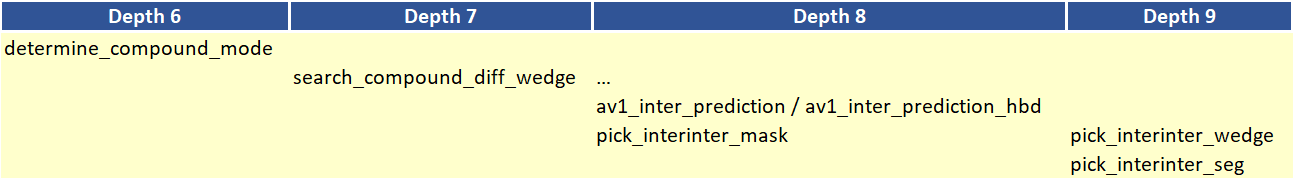
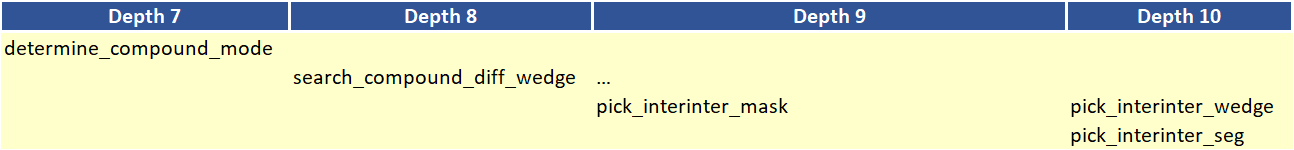
updating documentations for compound mode

diff --git a/Docs/Appendix-Compound-Mode-Prediction.md b/Docs/Appendix-Compound-Mode-Prediction.md
@@ -141,20 +141,40 @@ Table 1 below provides the weights as a function of d1/d0.
 
 ## 2.  Implementation of the algorithm
 
-**Control macros/flags**:
+**Control tokens/flags**:
 
-##### Table 2. Inter-intra-related control flags.
+The control tokens and flags for the feature are listed in Tables 2 and 3.
 
-![comp_mode_pred_table2](./img/comp_mode_pred_table2.png)
+##### Table 2. Control flags related to inter-intra compound mode prediction.
 
-##### Table 3. Control flag for wedge prediction.
+| **Flag** | **Level (Sequence/picture)** | **Description** |
+| --- | --- | --- |
+| inter_intra_compound | sequence | Config level settings for the whole sequence. 0/1: ON/OFF; -1 for Auto i.e. Default |
+| enable_interintra_compound | sequence | Sequence level ON/OFF flag |
+| md_inter_intra_level | sequence | Enable/disable the feature at the picture level. |
+| md_inter_intra_level | block | Enable/disable the feature at the block level. |
 
-![comp_mode_pred_table3](./img/comp_mode_pred_table3.png)
 
-##### Table 4. Control flags related to inter-inter compound mode prediction.
+##### Table 3. Control flags related to inter-inter compound mode prediction.
 
-![comp_mode_pred_table4](./img/comp_mode_pred_table4.png)
+| **Flag** | **Level (Sequence/picture)** | **Description** |
+| --- | --- | --- |
+| compound_level | sequence | Config level settings for the whole sequence. 0/1: OFF/ON; -1 for Auto i.e. Default |
+| compound_mode | sequence | Sequence level ON/OFF flag |
+| inter_compound_mode | sequence | Enable/disable the feature at the picture level. |
+| inter_compound_mode | block | Enable/disable the feature at the block level. |
 
+### API
+
+The main function calls associated with the compound mode are listed in Tables 4 and 5.
+
+##### Table 4. API for inter-intra compound mode.
+
+![comp_mode_pred_table4_new](./img/comp_mode_pred_table4_new.png)
+
+##### Table 5. API for inter-inter compound mode.
+
+![comp_mode_pred_table5_new](./img/comp_mode_pred_table5_new.png)
 
 ### Details of the implementation
 
@@ -252,17 +272,14 @@ residuals and the intra prediction residuals.
 
 3.  ```Determine_compound_mode```
 
-The main function calls starting at ```Determine_compound_mode``` are
-outlined in Figure 4.
+The main function calls starting at ```determine_compound_mode``` are outlined in Figure 4.
 
 ![comp_mode_pred_fig6](./img/comp_mode_pred_fig6.png)
 
 ##### Figure 4. Continuation of Figure 3 showing the main function calls starting with determine\_compound\_mode.
 
-The generation of ```COMPOUND_WEDGE``` and ```COMPOUND_DIFFWTD``` predictions is
-performed using the function ```Determine_compound\_mode```, which calls the
-function ```search_compound_diff_wedge```. The rest of the details are
-outlined in the following.
+The generation of ```COMPOUND_WEDGE``` and ```COMPOUND_DIFFWTD``` predictions is performed using the function ```determine_compound_mode```,
+which calls the function ```search_compound_diff_wedge```. The rest of the details are outlined in the following.
 
 For a given block, the generation of the single reference inter
 predictions is performed in the function ```av1_inter_prediction /
@@ -282,7 +299,7 @@ called.
 inter-inter ```COMPOUND_WEDGE``` and updates the best ```COMPOUND_WEDGE```
 prediction mode and corresponding cost. This is allowed only for block
 sizes 8x8, 8x16, 16x8, 16x16, 16x32, 32x16, 32x32, 8x32 and 32x8. In
-this function, both the nominal mask and its inverse are evaluated and
+this function, both the nominal mask and its inverse are evaluated, and
 the best mask is selected. The best mask also indicated the mask
 sign.
 
@@ -299,25 +316,11 @@ As an example, consider the flow below for the function
 
 2.  Determine the number of compound modes to try:
 
-     - If 8x8 \<= block size \<= 32x32, then compound modes to try =
-compound\_types\_to\_try
+     - If compound is enabled for this inter type (`inter_comp_ctrls.do_nearest_nearest` is true) `tot_comp_types` equal to `inter_comp_ctrls.tot_comp_types`
+       which is based on `inter_compound_mode` level
+     - else `tot_comp_types` equal to `MD_COMP_DIST`
 
-      - else
-
-        - If (compound\_types\_to\_try == MD\_COMP\_WEDGE)
-
-          compound modes to try = MD\_COMP\_DIFF0
-
-        - else compound modes to try = compound\_types\_to\_try
-
-3.  Optimize further the number of modes to evaluate based on the
-    variance of the source block. If the variance of the source block is
-    smaller than a given threshold (```inter_inter_wedge_variance_th```),
-    then ```MD_COMP_WEDGE``` is not considered in the search and compound
-    modes to try is limited to MIN(compound modes to try,
-    ```MD_COMP_DIFF0```)
-
-4.  Single reference case
+3.  Single reference case
 
     - Check if inter-intra is allowed: ```svt_is_interintra_allowed```
 
@@ -346,7 +349,7 @@ mode).
     prediction option based on the best intra prediction mode from the
     smooth inter-intra prediction search. (```inter_intra_search```)
 
-5.  Compound reference case
+4.  Compound reference case
 
     For all ```NEARESTMV_NEARESTMV``` and ```NEAR_NEARMV``` candidates, loop over
 all selected compound prediction modes
@@ -367,49 +370,49 @@ av1\_inter\_prediction.
 
 ##### Figure 5. Continuation of Figure 3 showing the main function calls associated with compound modes in the case of warped motion prediction.
 
-1.  warped\_motion\_prediction
+- Step 2.1: warped\_motion\_prediction
   - **plane\_warped\_motion\_prediction**: Generates the luma and chroma
-  warped luma predictions. The chroma predictions are generated for
-  blocks that are 16x16 or larger.
+    warped luma predictions. The chroma predictions are generated for
+    blocks that are 16x16 or larger.
     - **av1\_dist\_wtd\_comp\_weight\_assign**: Returns forward offset
       and backward offset for the case of compound reference
       candidates and where the inter-inter compound prediction mde
       is COMPOUND\_DISTWTD. The forward offset and backward offset
       are used as weights in the generation of the final prediction.
     - **av1\_make\_masked\_warp\_inter\_predictor**: Called only in the case
-  of compound reference candidate where the inter-inter compound type
-  is COMPOUND\_WEDGE or COMPOUND\_DIFFWTD. Generates the predictions
-  for both of those two compound types. The first step is to build the
-  mask for the case of the COMPOUND\_DIFFWTD inter-inter compound type
-  using the function av1\_build\_compound\_diffwtd\_mask\_d16. The
-  next step is to generate the predictions using the function
-  build\_masked\_compound\_no\_round as follows:
+      of compound reference candidate where the inter-inter compound type
+      is COMPOUND\_WEDGE or COMPOUND\_DIFFWTD. Generates the predictions
+      for both of those two compound types. The first step is to build the
+      mask for the case of the COMPOUND\_DIFFWTD inter-inter compound type
+      using the function av1\_build\_compound\_diffwtd\_mask\_d16. The
+      next step is to generate the predictions using the function
+      build\_masked\_compound\_no\_round as follows:
       - The function av1\_get\_compound\_type\_mask is called and
-      returns the mask for either the case of COMPOUND\_DIFFWTD or
-      for the case of COMPOUND\_WEDGE. The function
-      av1\_get\_contiguous\_soft\_mask returns the mask for the case
-      of COMPOUND\_WEDGE. For the case of COMPOUND\_DIFFWTD, the
-      mask is computed in the step above.
+        returns the mask for either the case of COMPOUND\_DIFFWTD or
+        for the case of COMPOUND\_WEDGE. The function
+        av1\_get\_contiguous\_soft\_mask returns the mask for the case
+        of COMPOUND\_WEDGE. For the case of COMPOUND\_DIFFWTD, the
+        mask is computed in the step above.
       - The function aom\_highbd\_blend\_a64\_d16\_mask/
-      aom\_lowbd\_blend\_a64\_d16\_mask is the called to perform the
-      blending of the two inter predictions using the generated
-      mask.
-    - **eb\_av1\_warp\_plane** is invoked in the case of BIPRED where
-  inter-inter compound type is COMPOUND\_DISTWTD. In this case the
-  function highbd\_warp\_plane / warp\_plane is called and in turn
-  calls the function eb\_av1\_highbd\_warp\_affine /
-  eb\_av1\_warp\_affine. The latter applies the affine transform and
-  generates the warped motion prediction using the forward offset and
-  backward offset weights associated with the COMPOUND\_DISTWTD mode.
+        aom\_lowbd\_blend\_a64\_d16\_mask is the called to perform the
+        blending of the two inter predictions using the generated
+        mask.
+    - **svt\_av1\_warp\_plane** is invoked in the case of BIPRED where
+      inter-inter compound type is COMPOUND\_DISTWTD. In this case the
+      function highbd\_warp\_plane / warp\_plane is called and in turn
+      calls the function eb\_av1\_highbd\_warp\_affine /
+      eb\_av1\_warp\_affine. The latter applies the affine transform and
+      generates the warped motion prediction using the forward offset and
+      backward offset weights associated with the COMPOUND\_DISTWTD mode.
   - **chroma\_plane\_warped\_motion\_prediction\_sub8x8**: Generates chroma
-  warped motion predictions for blocks that are smaller than 16x16.
-  The function av1\_dist\_wtd\_comp\_weight\_assign is first called to
-  generate the mask for the COMPOUND\_DISTWTD case. The appropriate
-  function in the function array convolve\[\]\[\]\[\] /
-  convolveHbd\[\]\[\]\[\] is then called to generate the prediction
-  using the forward offset and the backward offset weights.
+    warped motion predictions for blocks that are smaller than 16x16.
+    The function av1\_dist\_wtd\_comp\_weight\_assign is first called to
+    generate the mask for the COMPOUND\_DISTWTD case. The appropriate
+    function in the function array convolve\[\]\[\]\[\] /
+    convolveHbd\[\]\[\]\[\] is then called to generate the prediction
+    using the forward offset and the backward offset weights.
 
-2.  **av1\_inter\_prediction**
+- Step 2.1:  **av1\_inter\_prediction**
 
 ![comp_mode_pred_fig8](./img/comp_mode_pred_fig8.png)
 
@@ -431,67 +434,29 @@ pass. The two main relevant functions are ```warped_motion_prediction``` and
 
 **Inter-intra prediction**
 
-The settings for the different flags associated with inter-intra
-prediction mode are outlined in Table 5 below.
+The flag ```md_inter_intra_level``` is used to control when the inter-intra modes are allowed as a function of the PD pass and encoder preset.
 
-##### Table 5. Optimization settings for inter-intra compound prediction.
+### Optimization of inter-inter compound mode prediction
 
-![comp_mode_pred_fig9](./img/comp_mode_pred_fig9.png)
+The flag ```inter_compound_mode``` is used to define different levels of complexity-quality tradeoffs for the inter-inter compound prediction mode.
+The flag is set as a function of the encoder preset and controls a number of signals in the InterCompCtrls structure. The descriptions of those
+signals are given in Table 6.
 
-The flag ```md_enable_inter_intra``` is used to control when the
-inter-intra modes are allowed as a function of the PD pass and of the
-flag ```enable_inter_intra```. The latter is active in the default mode only
-for MR mode and for the M0 preset, otherwise it would active only if the
-config flag ```inter_intra_compound``` is active.
 
-**Inter-inter compound prediction**
-
-The flags ```compound_level``` and ```compound_mode``` control the
-complexity-quality tradeoff of the inter-inter compound prediction
-modes.
-
-##### Table 6. Settings for compound\_level in inter-inter compound prediction.
-
-![comp_mode_pred_fig10](./img/comp_mode_pred_fig10.png)
-
-##### Table 7. Optimization settings for the inter-inter compound prediction.
-
-![comp_mode_pred_fig11](./img/comp_mode_pred_fig11.png)
-
-The flag ```compound_types_to_try``` indicates the inter-inter compound
-mode to evaluate as a function of the PD pass and of the flag
-```picture_control_set_ptr->parent_pcs_ptr->compound_mode```. The
-setting for the latter in the default mode depends on
-```sequence_control_set_ptr->compound_mode```, the encoder preset and the
-```sc_content_detected``` flag; otherwise, it is set to the config input
-value compound\_level. The flag
-```sequence_control_set_ptr->compound_mode``` depends in the default
-configuration on the encoder preset, otherwise it set to the config
-input value ```compound_level```.
-
-**Inter-inter wedge prediction**
-
-For the case of inter-inter wedge prediction, the flag ```wedge_mode```
-decides on the tradeoff between complexity and quality for inter-inter
-wedge prediction. The settings for the flag are given in Table 8.
-
-##### Table 8. wedge\_mode settings and description.
-
-![comp_mode_pred_fig12](./img/comp_mode_pred_fig12.png)
-
-Currently, wedge\_mode is set to 0, i.e. full search is performed all
-the time as indicated in Table 9.
-
-##### Table 9. wedge\_mode settings.
-
-![comp_mode_pred_fig13](./img/comp_mode_pred_fig13.png)
-
-Whether to include wedge prediction in the case of inter-inter
-compound prediction is also controlled by the variance of the source
-block. If the variance of the source block is smaller than a given
-threshold (```inter_inter_wedge_variance_th```), then ```MD_COMP_WEDGE``` is
-not considered in the search and the compound modes to try are limited
-to at most to ```MD_COMP_DIST``` and ```MD_COMP_DIFF0```.
+##### Table 6. Optimization signals related to inter-inter compound mode prediction.
+| **Signal** | **Description** |
+| --- | --- |
+| tot_comp_types | Compound types to test; 0: OFF, 1: AVG, 2: AVG/DIST, 3: AVG/DIST/DIFF/WEDGE, 4: AVG/DIST/DIFF/WEDGE |
+| do_me | if true, test all compound types for me |
+| do_pme | if true, test all compound types for pme |
+| do_nearest_nearest | if true, test all compound types for nearest_nearest |
+| do_near_near | if true, test all compound types for near_near |
+| do_nearest_near_new | if true, test all compound types for nearest_near_new |
+| do_3x3_bi | if true, test all compound types for near_near |
+| do_nearest_near_new | if true, test all compound types for nearest_near_new |
+| do_3x3_bi | if true, test all compound types for 3x3_bipred |
+| pred0_to_pred1_mult | Multiplier to the pred0_to_pred1_sad; 0: no pred0_to_pred1_sad-based pruning, >= 1: towards more inter-inter compound |
+| use_rate | if true, use rate @ compound params derivation |
 
 ## Notes
 
@@ -509,3 +474,7 @@ Yunqing Wang, Paul Wilkins, Jim Bankoski, Luc Trudeau, Nathan Egge,
 Jean-Marc Valin, Thomas Davies, Steinar Midtskogen, Andrey Norkin and
 Peter de Rivaz, “An Overview of Core Coding Tools in the AV1 Video
 Codec,” Picture Coding Symposium, pp. 41-45, 2018.
+
+\[3\] Jingning Han, Bohan Li, Debargha Mukherjee, Ching-Han Chiang, Adrian Grange, Cheng Chen,
+Hui Su, Sarah Parker, Sai Deng, Urvang Joshi, Yue Chen, Yunqing Wang, Paul Wilkins, Yaowu Xu, James  Bankoski,
+“A Technical Overview of AV1,” Proceedings of the IEEE, vol. 109, no. 9, pp. 1435-1462, Sept. 2021.
